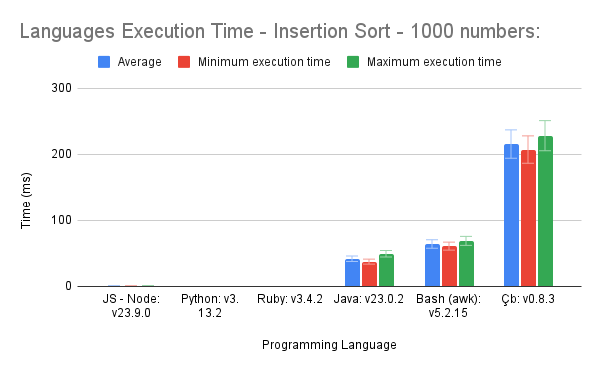
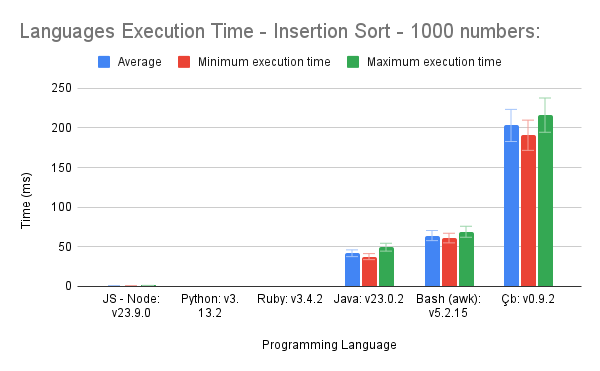
Updated Graphs and added graph comparing different Çb versions

diff --git a/README.md b/README.md
@@ -41,7 +41,13 @@ These algorithms were selected due to their common usage in programming and thei
 
 <img src="./src/mode_1000.png" alt="Mode of 1000 Numbers" width="700" />
 
-*Interpreters like Ç, Bash, and even Java exhibit nearly linear scaling in execution times, demonstrating consistent performance.*
+*Interpreters like Çb, Bash, and even Java exhibit nearly linear scaling in execution times, demonstrating consistent performance.*
+
+For those interested in the Çb project, feel free to explore it on [our GitHub page]([https://github.com/cedilha-lang]). Additionally, as a complement to our performance testing, we’ve implemented an algorithm that checks whether a given matrix is an identity matrix, which we used to compare the efficiency of different versions of our interpreter:
+
+<img src="./src/is_ident.png" alt="Speed comparison of Çb versions" width="700" />
+
+*The interpreter got a lot faster in version 0.7.8 as we made the interpreter capable of reading smaller files faster at the expense of reading multiple files or very large files less efficiently.*
 
 ## System Specifications
 It is important to remember that all tests were carried out on the following system:
